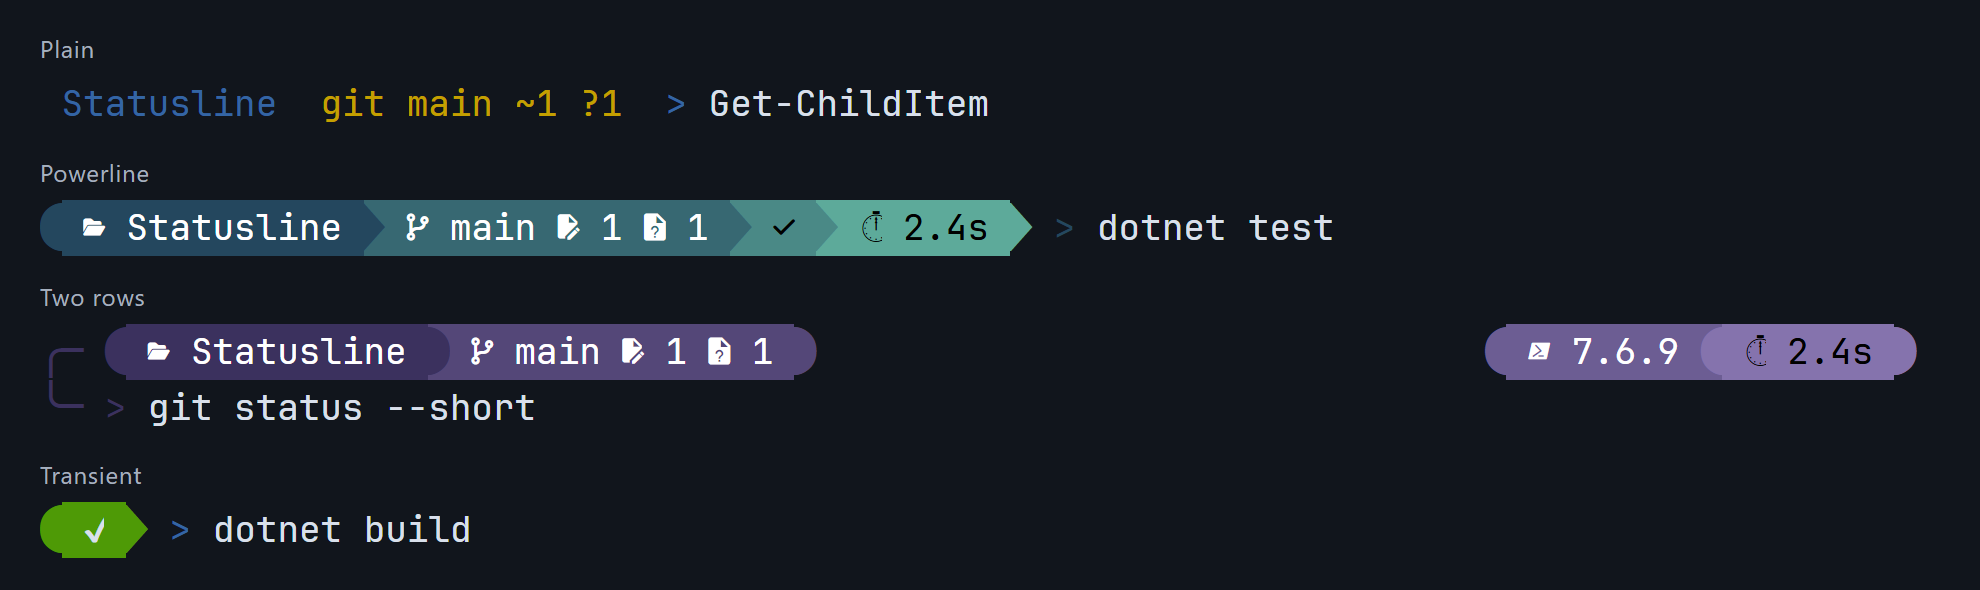
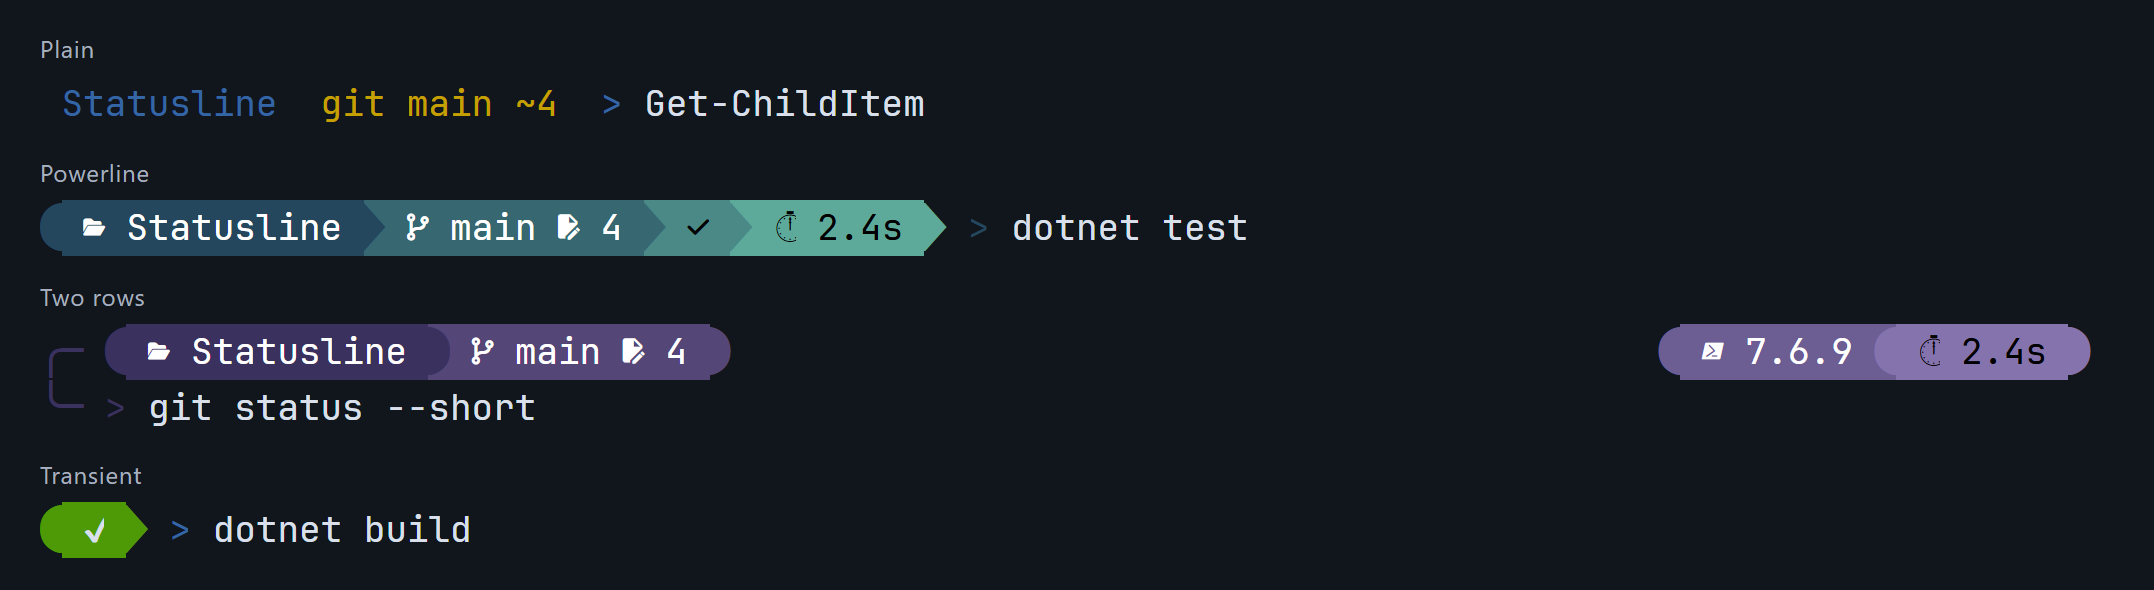
Improve README previews and add gradient examples

diff --git a/README.md b/README.md
@@ -17,12 +17,17 @@ Importing StatusLine leaves your prompt alone. Enable the features you want, whe
 
 ## Previews
 
+### Prompt
+
 ![Plain, Powerline, two-row, and transient prompt examples](docs/images/prompts.png)
 
-![System and project status-line examples](docs/images/statuslines.png)
+### Statusline
+
+![Session, project, and muted and blue-to-orange gradient status-line examples](docs/images/statuslines.png)
 
 Run [Show-Examples.ps1](tools/Show-Examples.ps1) to preview these layouts in one terminal.
 These images capture the preview commands' rendered output; command text, exit codes, and durations are examples.
+Rows labelled "sample" use fixed session counts, weather, uptime, CPU, and RAM values.
 
 ## Install
 
